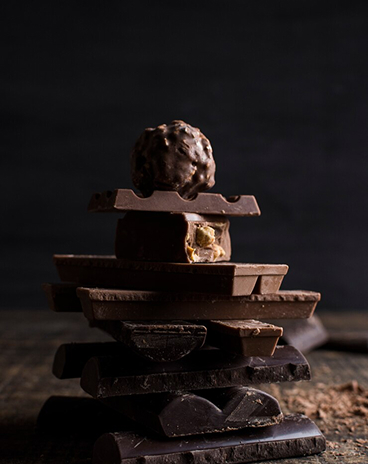
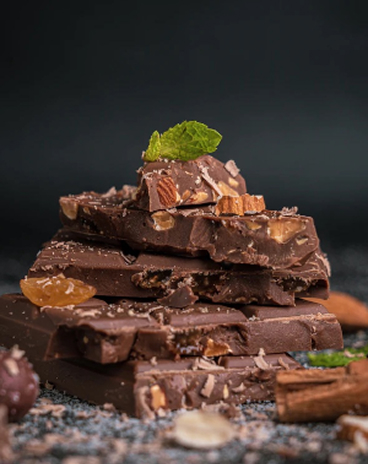
Add rest html markup

diff --git a/html+css/module-01/index.html b/html+css/module-01/index.html
@@ -36,7 +36,7 @@
             <a href="#made">How it’s made?</a>
           </li>
           <li>
-            <a href="#">Chocolate is loved</a>
+            <a href="#reviews">Chocolate is loved</a>
           </li>
         </ul>
       </nav>
@@ -228,15 +228,249 @@
       </section>
 
       <!-- Products section -->
-      <section></section>
+      <section id="products">
+        <h2>Our products</h2>
+        <ul>
+          <li>
+            <img
+              src="./images/products/img-1.jpg"
+              alt="Orange - Dark chocolate"
+              width="230"
+              height="201"
+            />
+            <h3>Orange</h3>
+            <p>Dark chocolate</p>
+            <p>45 UAH</p>
+          </li>
+          <li>
+            <img
+              src="./images/products/img-2.jpg"
+              alt="Apple & Cranberry - Milk chocolate"
+              width="230"
+              height="201"
+            />
+            <h3>Apple & Cranberry</h3>
+            <p>Milk chocolate</p>
+            <p>50 UAH</p>
+          </li>
+          <li>
+            <img
+              src="./images/products/img-3.jpg"
+              alt="Lime & Sea Salt - Dark chocolate"
+              width="230"
+              height="201"
+            />
+            <h3>Lime & Sea Salt</h3>
+            <p>Dark chocolate</p>
+            <p>66 UAH</p>
+          </li>
+          <li>
+            <img
+              src="./images/products/img-4.jpg"
+              alt="Pineapple - Dark chocolate"
+              width="230"
+              height="201"
+            />
+            <h3>Pineapple</h3>
+            <p>Dark chocolate</p>
+            <p>54 UAH</p>
+          </li>
+          <li>
+            <img
+              src="./images/products/img-5.jpg"
+              alt="Classic - Milk chocolate"
+              width="230"
+              height="201"
+            />
+            <h3>Classic</h3>
+            <p>Milk chocolate</p>
+            <p>45 UAH</p>
+          </li>
+          <li>
+            <img
+              src="./images/products/img-6.jpg"
+              alt="Honey - Milk chocolate"
+              width="230"
+              height="201"
+            />
+            <h3>Honey</h3>
+            <p>Milk chocolate</p>
+            <p>50 UAH</p>
+          </li>
+          <li>
+            <img
+              src="./images/products/img-7.jpg"
+              alt="Roasted Fruits - Dark chocolate"
+              width="230"
+              height="201"
+            />
+            <h3>Roasted Fruits</h3>
+            <p>Dark chocolate</p>
+            <p>66 UAH</p>
+          </li>
+          <li>
+            <img
+              src="./images/products/img-8.jpg"
+              alt="Classic - White chocolate"
+              width="230"
+              height="201"
+            />
+            <h3>Classic</h3>
+            <p>White chocolate</p>
+            <p>54 UAH</p>
+          </li>
+        </ul>
+      </section>
 
       <!-- Bestsellers section -->
-      <section></section>
+      <section id="bestsellers">
+        <h2>Top sellers</h2>
+        <ul>
+          <li>
+            <img
+              src="./images/bestsellers/ill-1.jpg"
+              alt="CHOCOLATE WITH NUTS"
+              width="368"
+              height="464"
+            />
+            <h3>CHOCOLATE WITH NUTS</h3>
+          </li>
+          <li>
+            <img
+              src="./images/bestsellers/ill-2.jpg"
+              alt="CHOCOLATE WITH FRUITS"
+              width="368"
+              height="464"
+            />
+            <h3>CHOCOLATE WITH FRUITS</h3>
+          </li>
+          <li>
+            <img
+              src="./images/bestsellers/ill-3.jpg"
+              alt="DARK CHOCOLATE"
+              width="368"
+              height="464"
+            />
+            <h3>DARK CHOCOLATE</h3>
+          </li>
+        </ul>
+      </section>
 
       <!-- Reviews section -->
-      <section></section>
+      <section id="reviews">
+        <h2>Chocolate is loved</h2>
+        <ul>
+          <li>
+            <img
+              src="./images/reviews/img-1.png"
+              alt="Victoria Dobrzhanska"
+              width="80"
+              height="80"
+            />
+            <h3>Victoria Dobrzhanska</h3>
+            <p>
+              I love this chocolate bar. Perfect combination of light crispy
+              wafer, covered in a thin layer chocolate.
+            </p>
+          </li>
+          <li>
+            <img
+              src="./images/reviews/img-2.png"
+              alt="Nazar Babenko"
+              width="80"
+              height="80"
+            />
+            <h3>Nazar Babenko</h3>
+            <p>
+              This chocolate confection is a delight! A delight! The wafer is
+              light and crisp, the hazelnut cream is smooth, and the chocolate
+              is good.
+            </p>
+          </li>
+          <li>
+            <img
+              src="./images/reviews/img-3.png"
+              alt="Olena Kampusch<"
+              width="80"
+              height="80"
+            />
+            <h3>Olena Kampusch</h3>
+            <p>
+              Chocolate is a family favourite treat. Love the delicious smooth
+              chocolate and the creaminess inside. The wafer is soft but
+              crunchy.
+            </p>
+          </li>
+        </ul>
+        <button type="button">Leave a review</button>
+      </section>
     </main>
     <!-- Footer -->
-    <footer id="footer"></footer>
+    <footer id="footer">
+      <p>Chocolate a delicious cure for a bad day</p>
+      <p>Social networks</p>
+      <ul>
+        <li>
+          <a
+            href="https://facebook.com"
+            target="_blank"
+            rel="noopener noreferrer"
+          >
+            <img
+              src="./images/icons/facebook.svg"
+              alt="Facebook icon"
+              width="24"
+              height="24"
+            />
+          </a>
+        </li>
+        <li>
+          <a
+            href="https://instagram.com"
+            target="_blank"
+            rel="noopener noreferrer"
+          >
+            <img
+              src="./images/icons/instagram.svg"
+              alt="Instagram icon"
+              width="24"
+              height="24"
+            />
+          </a>
+        </li>
+        <li>
+          <a href="https://x.com" target="_blank" rel="noopener noreferrer">
+            <img
+              src="./images/icons/twitter.svg"
+              alt="X icon"
+              width="24"
+              height="24"
+            />
+          </a>
+        </li>
+      </ul>
+      <address>
+        <p>Contact us</p>
+        <ul>
+          <li>
+            <a href="+380684439426">+380 (68) 443-94-26</a>
+          </li>
+          <li>
+            <a href="mailto:simplychoc@gmail.com">simplychoc@gmail.com</a>
+          </li>
+        </ul>
+      </address>
+      <ul>
+        <li>
+          <a href="#header">Home</a>
+        </li>
+        <li>
+          <a href="#made">How it’s made?</a>
+        </li>
+        <li>
+          <a href="#reviews">Chocolate is loved</a>
+        </li>
+      </ul>
+    </footer>
   </body>
 </html>
